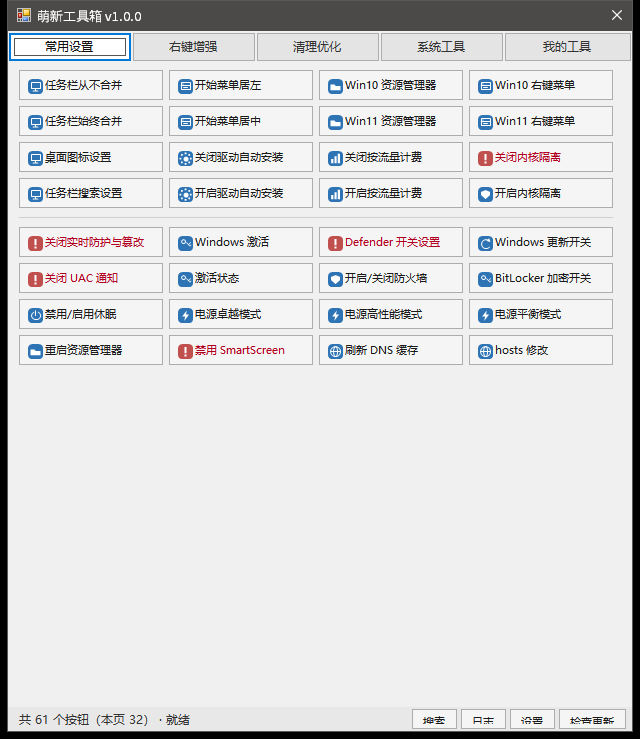
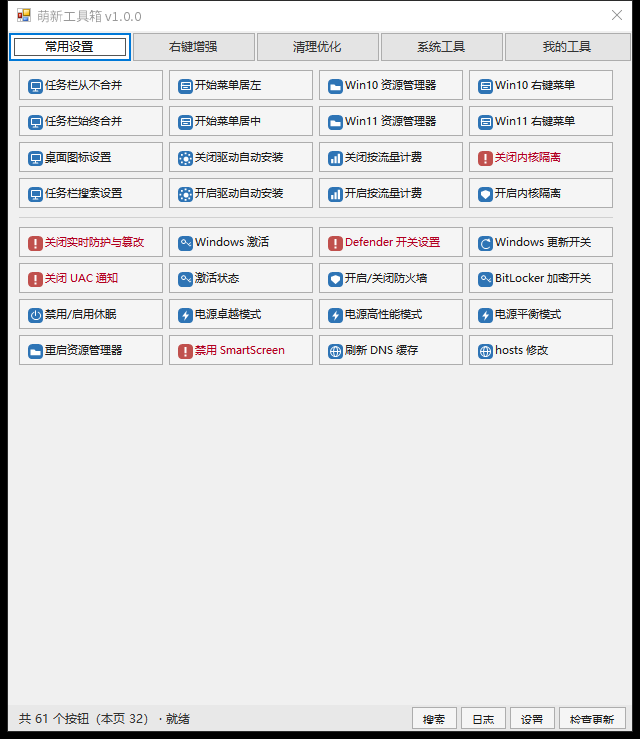
修：底栏按钮文字被裁（右下角按钮没正常显示）
- 底栏按钮写死 20px，而 8.25pt 一行文字就要 16px + 边框，下半截被裁掉
- 改成按字体算高度（MeasureText("国").Height + 6 = 22px），底栏高 = 按钮高 + 4（当前 26px）
- tests\Test-Gui.ps1 新增两条回归：D01b 子控件必须完全落在父容器内、D01c 底栏按钮高度 >= 20px
- 界面回归 37 -> 39 项，全套 63 -> 65 项；截图与文档（README / CHANGELOG / DESIGN / skill）同步

diff --git a/src/MainForm.cs b/src/MainForm.cs
@@ -15,7 +15,11 @@ namespace Mxx1Toolbox
     internal sealed class MainForm : Form
     {
         private const int TabBarHeight = 30;
-        private const int StatusBarHeight = 24;
+        // The status bar height is computed from the font (see the constructor): with a fixed
+        // 24px bar and 20px buttons the 8.25pt labels lost their bottom halves, because one
+        // line of text already needs 16px plus the button border.
+        private int _statusBarHeight = 26;
+        private int _barButtonHeight = 22;
         // Column width is measured from the longest button name at the real font size
         // (see ComputeCellWidth) so nothing is ever truncated and other DPI settings work.
         private int _cellWidth = 114;
@@ -77,6 +81,11 @@ namespace Mxx1Toolbox
 
             ReloadTools();
             _cellWidth = ComputeCellWidth();
+            using (Font barFont = new Font("Microsoft YaHei", 8.25f, FontStyle.Regular, GraphicsUnit.Point))
+            {
+                _barButtonHeight = Math.Max(20, TextRenderer.MeasureText("国", barFont).Height + 6);
+            }
+            _statusBarHeight = _barButtonHeight + 4;   // 2px margin above and below
             ClientSize = new Size(Math.Max(500, Columns * _cellWidth + 24), 700);
             BuildUi();
             BuildGrid();
@@ -103,7 +112,7 @@ namespace Mxx1Toolbox
             _root.RowStyles.Add(new RowStyle(SizeType.Absolute, 0f));             // search row
             _root.RowStyles.Add(new RowStyle(SizeType.Percent, 100f));            // button grid
             _root.RowStyles.Add(new RowStyle(SizeType.Absolute, 0f));             // log panel
-            _root.RowStyles.Add(new RowStyle(SizeType.Absolute, StatusBarHeight));// status bar
+            _root.RowStyles.Add(new RowStyle(SizeType.Absolute, _statusBarHeight));// status bar
 
             // tabs: one flat button per page, equal width
             _tabBar = new TableLayoutPanel();
@@ -228,7 +237,7 @@ namespace Mxx1Toolbox
             // from the label so the AutoSize column gives it exactly that much room.
             b.AutoSize = false;
             b.Font = new Font("Microsoft YaHei", 8.25f, FontStyle.Regular, GraphicsUnit.Point);
-            b.Height = 20;
+            b.Height = _barButtonHeight;
             b.Width = TextRenderer.MeasureText(text, b.Font).Width + 16;
             b.Margin = new Padding(4, 2, 0, 2);
             b.FlatStyle = FlatStyle.Flat;

diff --git a/docs/DESIGN.md b/docs/DESIGN.md
@@ -26,7 +26,7 @@
 | 7 | 占位点击表现 | 状态栏 `XXX · 功能待接入（P1）` + 写一条日志，按钮灰 0.6 秒；**不弹窗** |
 | 8 | 「推荐」红框 | 不做（那是别人截图时画的） |
 | 9 | 页签 | `常用设置` / `右键增强` / `清理优化` / `系统工具` / `我的工具` |
-| 10 | 底部条 | 24px：`共 N 个按钮（本页 M） · 状态文字` + `[搜索] [日志] [设置] [检查更新]` |
+| 10 | 底部条 | **高度按字体算**（当前 26px = 按钮 22px + 上下各 2px）：`共 N 个按钮（本页 M） · 状态文字` + `[搜索] [日志] [设置] [检查更新]` |
 | 11 | 高 DPI | **System DPI aware（`dpiAware=true`）+ `AutoScaleMode.Font`**。不用 PerMonitorV2：它要靠 app.config 开关，而 exe.config 会破坏"单文件"。列宽在运行时按最长按钮名测量，所以换 DPI / 换字号都不会截断文字 |
 | 12 | 按钮来源 | 全部由 `tools\*.json` 驱动（内嵌 5 个 + 用户层覆盖） |
 
@@ -57,7 +57,7 @@
 | 内容区 | 每个页签一个 `Panel(AutoScroll=true)`，里面套 `TableLayoutPanel(Dock=Top, AutoSize)` |
 | 搜索行 | 默认隐藏（行高 0），点 `[搜索]` 展开 28px，输入即筛当前页 |
 | 日志面板 | 默认收起（行高 0），展开 170px；字号 Consolas 8.25pt；`HH:mm:ss  按钮名  内容`，**最新在最上面** |
-| 底部条 | 高 24px；左 `Label`（AutoEllipsis），右 4 个 `AutoSize=false`、高 20px 的按钮（宽度按文字量） |
+| 底部条 | 高 `_statusBarHeight`（= 按钮高 + 4，当前 26px）；左 `Label`（AutoEllipsis），右 4 个 `AutoSize=false` 的按钮：**高度按字体算**（`MeasureText("国").Height + 6` = 22px），宽度按文字量 |
 | 窗口布局 | 用一个 5 行 `TableLayoutPanel`（页签 / 搜索 / 网格 / 日志 / 底栏）—— 完全不手写坐标 |
 
 ### 配色
@@ -223,10 +223,10 @@ CLI：`list [--tab <id>]` / `run <id> [--admin]` / `status` / `checkupdate` / `h
 - `tools\Test-Encoding.ps1` 全绿（102 个文件）
 - `tests\Test-Cli.ps1` **26/26**：中文不乱码、按钮数 61、页签分布 32/8/8/12/1、占位按钮写日志、
   真按钮能读到隔壁引擎的 `installed=`、错误用法退出码 2
-- `tests\Test-Gui.ps1` **37/37**：标题栏无最小化/最大化方框、窗口可缩放、四列八行、
+- `tests\Test-Gui.ps1` **39/39**：标题栏无最小化/最大化方框、窗口可缩放、四列八行、
   **按钮尺寸完全一致**、**零重叠**、五个页签切换后按钮数正确、搜索/日志面板开合、
   真点占位按钮后日志多一行、危险按钮弹「确认执行」并能取消、深色主题正常
-- `tests\Test-All.ps1` 合计 **63 项全绿**
+- `tests\Test-All.ps1` 合计 **65 项全绿**
 - 截图：`docs\gui-shot.png`（浅色 640×739）、`docs\dark-shot.png`（深色）
 
 ## 12 实现期间踩到并修掉的坑（别再踩）
@@ -242,6 +242,10 @@ CLI：`list [--tab <id>]` / `run <id> [--admin]` / `status` / `checkupdate` / `h
    要么自己 `SetOut(UTF-8 writer)`；另外**不要**在 stdout 已被重定向时 `AttachConsole`，否则输出绕开管道，
    `$exe status | ...` 拿到空字符串。
 5. **占位按钮的那 600ms 灰显**：界面测试要等它恢复再断言"按钮可用"，否则会把设计行为当成卡死。
+6. **按钮写死高度会裁掉文字**：底栏按钮原来是 `AutoSize=false` + 高 20px，而 8.25pt 一行字就要 16px，
+   加上 1px 边框和基线间距直接装不下 —— 用户看到"右下角按钮没正常显示、被挡住"。
+   修法：高度按字体算（`TextRenderer.MeasureText("国", font).Height + 6`），底栏高 = 按钮高 + 4，
+   并加回归检查 D01b/D01c（子控件必须完全落在父容器内 + 按钮高度不小于 20px）。
 6. **PowerShell 数组的坑（本仓库踩过两次）**：`@(@('a','b'))` 传给函数会被解包成 `@('a','b')`，
    于是 `$p[0]` 取到的是**字符**而不是字符串 —— 用 `Replace` 批量改代码时会把整个文件改烂。
    脚本里要改文件就用两个平行数组 + 显式下标，或者干脆用编辑器逐个改。

diff --git a/CHANGELOG.md b/CHANGELOG.md
@@ -40,16 +40,20 @@
 - `tools\Make-Screenshots.ps1`：用 `PrintWindow` 拍浅色 / 深色两张文档截图。
 - `tools\Make-Icons.ps1`：按"页签定底色 + 按钮名里的关键词定图形"批量画 61 个 16×16 PNG 图标
   （纯 GDI+ 图元，不依赖字体），危险按钮统一红底感叹号；`build.ps1` 把它们以 `icons.<id>.png` 内嵌进 exe。
-- 测试 **63 项**：命令行回归 26 + 界面回归 37（外加编码体检）。界面回归用 Win32 探针
+- 测试 **65 项**：命令行回归 26 + 界面回归 39（外加编码体检）。界面回归用 Win32 探针
   （枚举子窗口矩形判重叠、读 `GWL_STYLE`、`BM_CLICK` 真点、`WM_GETTEXT` 读文字），
   按钮清单从 `list` 读，不写死。
 
-### 修掉的两个界面 bug（都被界面回归抓住）
+### 修掉的三个界面 bug（前两个是界面回归抓的，第三个是用户看出来的）
 
 - **每一行第 4 个按钮比同排宽 28px**：`Dock=Top` 的 `TableLayoutPanel` 会把多出来的宽度全给最后一列，
   改成末尾加一个占 100% 的空列吃掉余量。
 - **底栏按钮下边缘被裁掉 5px**：状态栏那一行没设 `RowStyles`，行按内容撑到 30px 而容器只有 24px，
   改成行 `Percent 100` + 按钮固定高 20px。
+- **底栏按钮文字被裁（用户报"右下角按钮没正常显示、被挡住"）**：上一条把按钮压到 20px，
+  而 8.25pt 一行文字要 16px + 边框，直接装不下。改成**按字体算高度**
+  （`MeasureText("国").Height + 6` = 22px，底栏 26px），并新增两条回归检查：
+  子控件必须完全落在父容器内（D01b）、底栏按钮高度 ≥ 20px（D01c）。
 
 ### 已知限制 / 下一步
 

diff --git a/README.md b/README.md
@@ -94,7 +94,7 @@ bin\Mxx1Toolbox.exe help
 powershell -File tools\Test-Encoding.ps1     # 编码红线体检（BOM / 纯 ASCII / 硬编码本机路径）
 powershell -File tests\Test-All.ps1          # 全部（无桌面时加 -SkipGui）
 powershell -File tests\Test-Cli.ps1          # 命令行回归 26 项
-powershell -File tests\Test-Gui.ps1          # 界面回归 37 项（要交互式桌面，无桌面返回 3 = 跳过）
+powershell -File tests\Test-Gui.ps1          # 界面回归 39 项（要交互式桌面，无桌面返回 3 = 跳过）
 powershell -File tools\Make-Screenshots.ps1  # 重新拍 docs 里的截图
 powershell -File tools\Make-Icons.ps1        # 重新生成 61 个 16x16 PNG 图标
 ```
